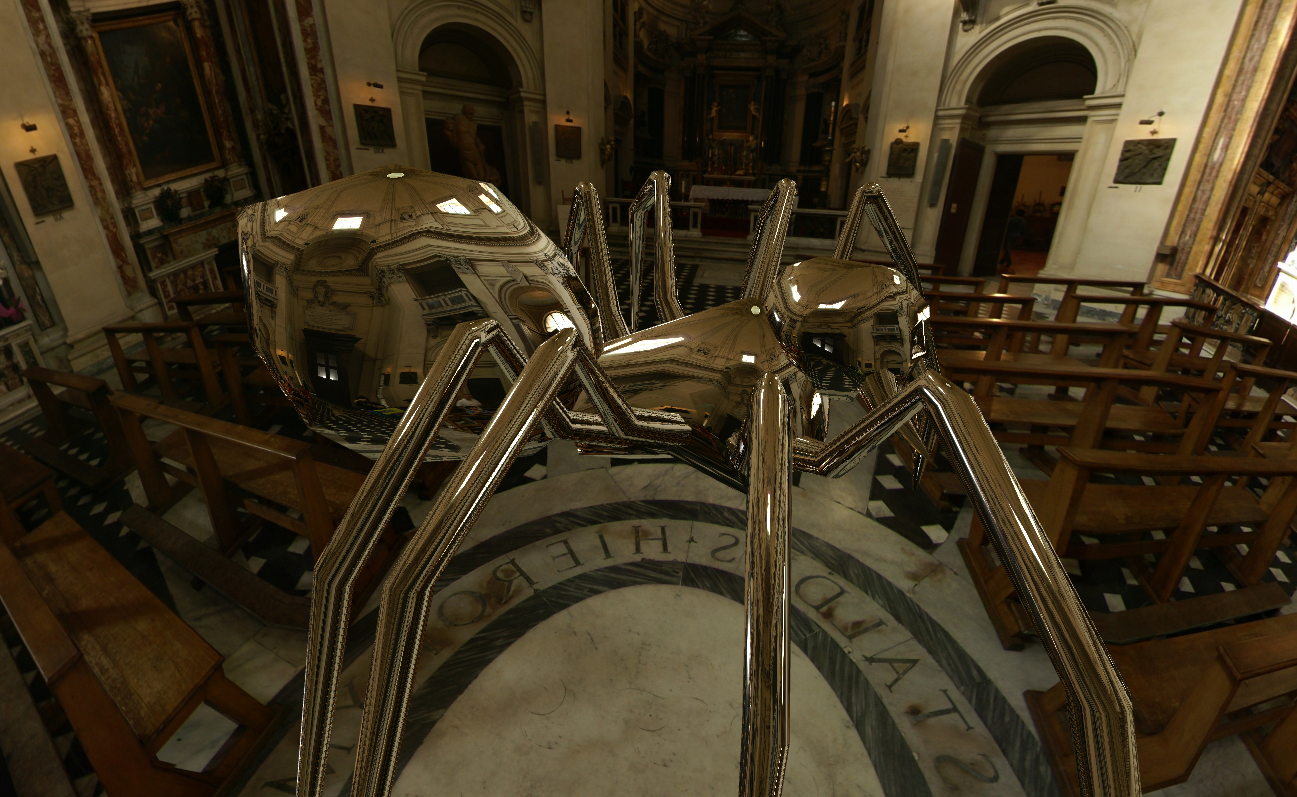
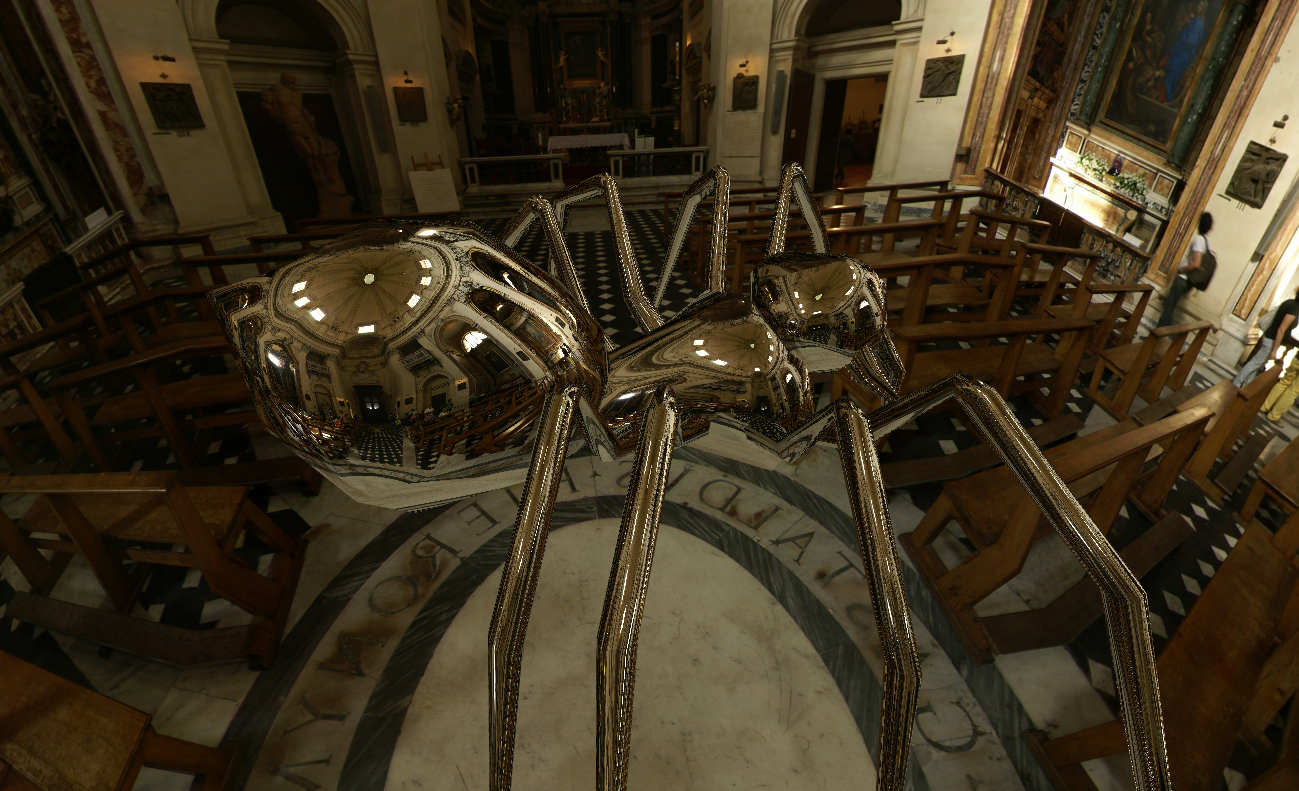
Task2 fixed

diff --git a/src/task2/main.cpp b/src/task2/main.cpp
@@ -173,10 +173,13 @@ int main()
 
 		mat4 proj = glm::perspective(45.0f,
 			float(1300) / float(800), 0.1f, 100.0f);
-		mat4 view(lookAt(vec3(sin(t), sin(t * 0.912), cos(t)) * 0.6f, vec3(0, 0, 0), vec3(0, 1, 0)));
+		vec3 camera_pos(vec3(sin(t * 0.2), sin(t * 0.912 * 0.2), cos(t * 0.2)) * 0.6f);
+		mat4 view(lookAt(camera_pos, vec3(0, 0, 0), vec3(0, 1, 0)));
 		glUseProgram(scene_shader);
 		glUniformMatrix4fv(glGetUniformLocation(scene_shader, "view_proj_mat"),
 			1, GL_FALSE, value_ptr(proj * view));
+		glUniform3fv(glGetUniformLocation(scene_shader, "from_camera_modelspace"),
+			1, value_ptr(normalize(-camera_pos)));
 		glBindVertexArray(vertex_array_o);
 		glBindTexture(GL_TEXTURE_CUBE_MAP, skybox_texture);
 
